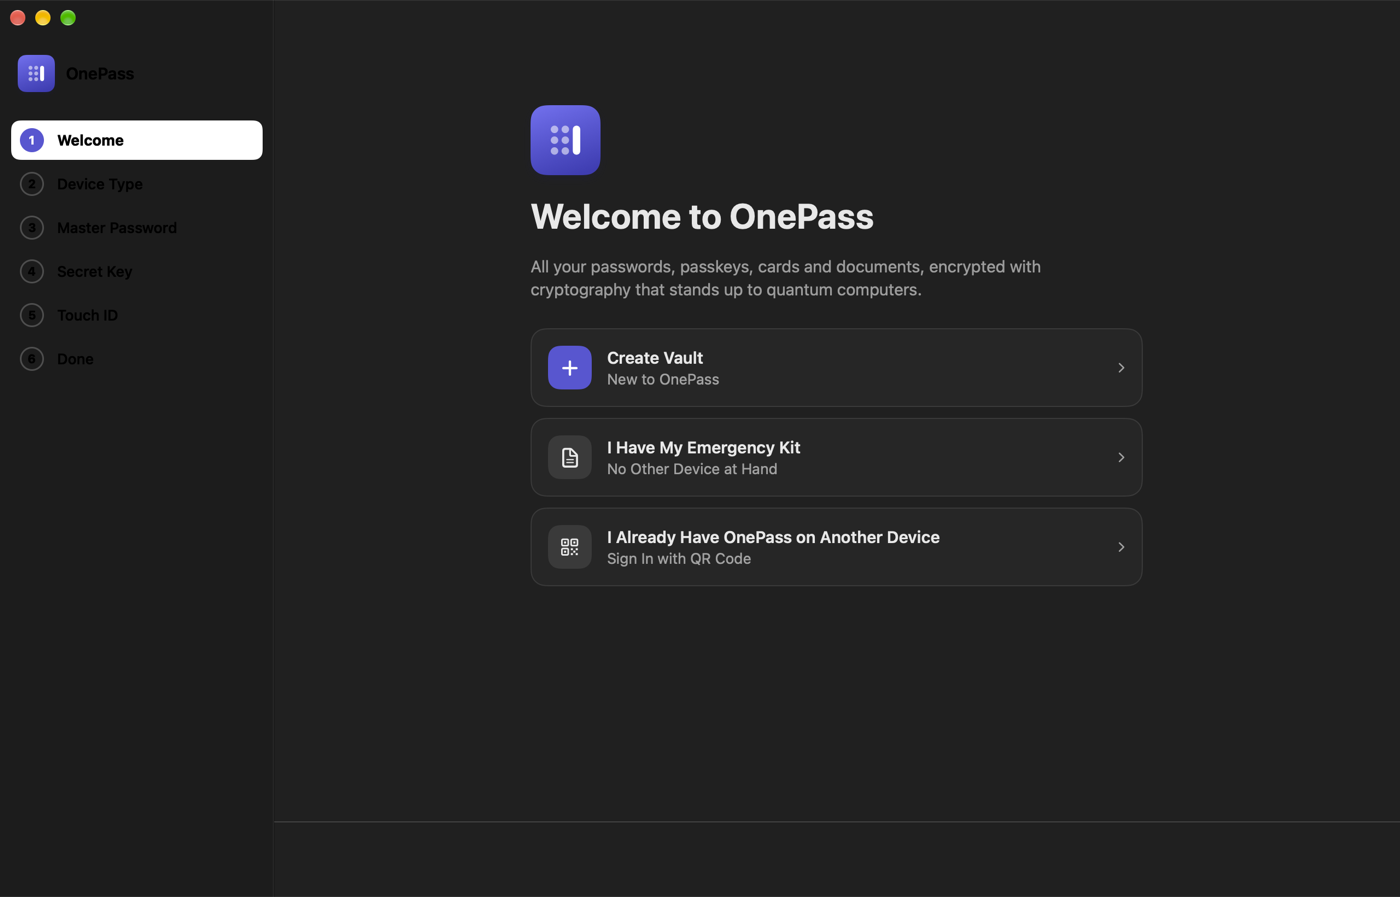
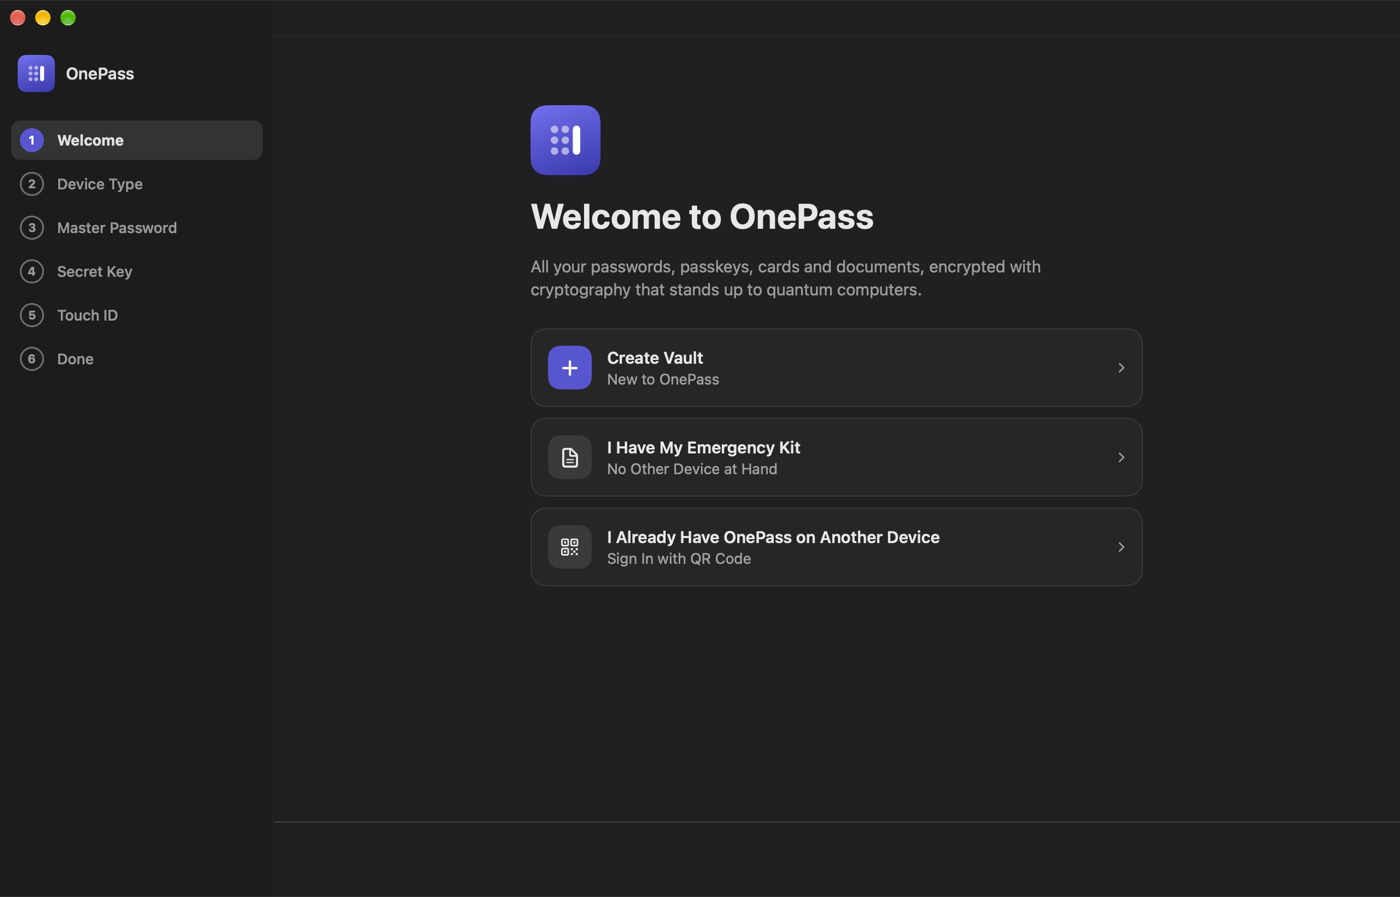
fix(mac): onboarding rail readable in dark window renders
The rail drew its labels, number discs and current row with the
sidebar's vibrant styles (.primary, .secondary, .quaternary). The
app's own window render (Snapshot, cacheDisplay) cannot draw dark
vibrancy, so the README dark shot showed black labels on the dark
sidebar. The rail now uses plain colours picked per colour scheme.
README Mac shots retaken.

diff --git a/apple/App/Onboarding/OnboardingFlow.swift b/apple/App/Onboarding/OnboardingFlow.swift
@@ -796,14 +796,21 @@ private struct MacOnboardingLayout: View {
 }
 
 /// Step list of the mockup's left rail: number disc, check once done, current step in bold.
+/// Plain colours, not the sidebar's vibrant styles: those also draw in the app's own window
+/// renders (`Snapshot`), where dark vibrancy comes out black.
 private struct StepRail: View {
     let model: OnboardingModel
+    @Environment(\.colorScheme) private var scheme
+
+    private var label: Color { scheme == .dark ? Color.white.opacity(0.85) : Color.black.opacity(0.85) }
+    private var secondaryLabel: Color { scheme == .dark ? Color.white.opacity(0.55) : Color.black.opacity(0.5) }
+    private var currentRow: Color { scheme == .dark ? Color.white.opacity(0.1) : Color.white }
 
     var body: some View {
         VStack(alignment: .leading, spacing: 4) {
             HStack(spacing: 10) {
                 AppGlyph(size: 34).accessibilityHidden(true)
-                Text("OnePass").font(.title3.bold())
+                Text("OnePass").font(.title3.bold()).foregroundStyle(label)
             }
             .padding(.horizontal, 6)
             .padding(.bottom, 22)
@@ -816,7 +823,7 @@ private struct StepRail: View {
                         if index <= current {
                             Circle().fill(Theme.accent)
                         } else {
-                            Circle().strokeBorder(Color.secondary.opacity(0.4), lineWidth: 1.5)
+                            Circle().strokeBorder(secondaryLabel.opacity(0.7), lineWidth: 1.5)
                         }
                         if index < current {
                             Image(systemName: "checkmark")
@@ -825,13 +832,13 @@ private struct StepRail: View {
                         } else {
                             Text("\(index + 1)")
                                 .font(.system(size: 11, weight: .bold))
-                                .foregroundStyle(index == current ? Color.white : Color.secondary)
+                                .foregroundStyle(index == current ? Color.white : secondaryLabel)
                         }
                     }
                     .frame(width: 22, height: 22)
                     Text(OnboardingModel.railLabel(step))
                         .font(.system(size: 13.5, weight: index == current ? .bold : .medium))
-                        .foregroundStyle(index > current ? Color.secondary : Color.primary)
+                        .foregroundStyle(index > current ? secondaryLabel : label)
                         .lineLimit(1)
                     Spacer(minLength: 0)
                 }
@@ -839,7 +846,7 @@ private struct StepRail: View {
                 .frame(height: 36)
                 .background {
                     if index == current {
-                        RoundedRectangle(cornerRadius: 8, style: .continuous).fill(.quaternary)
+                        RoundedRectangle(cornerRadius: 8, style: .continuous).fill(currentRow)
                     }
                 }
                 .accessibilityElement(children: .combine)
